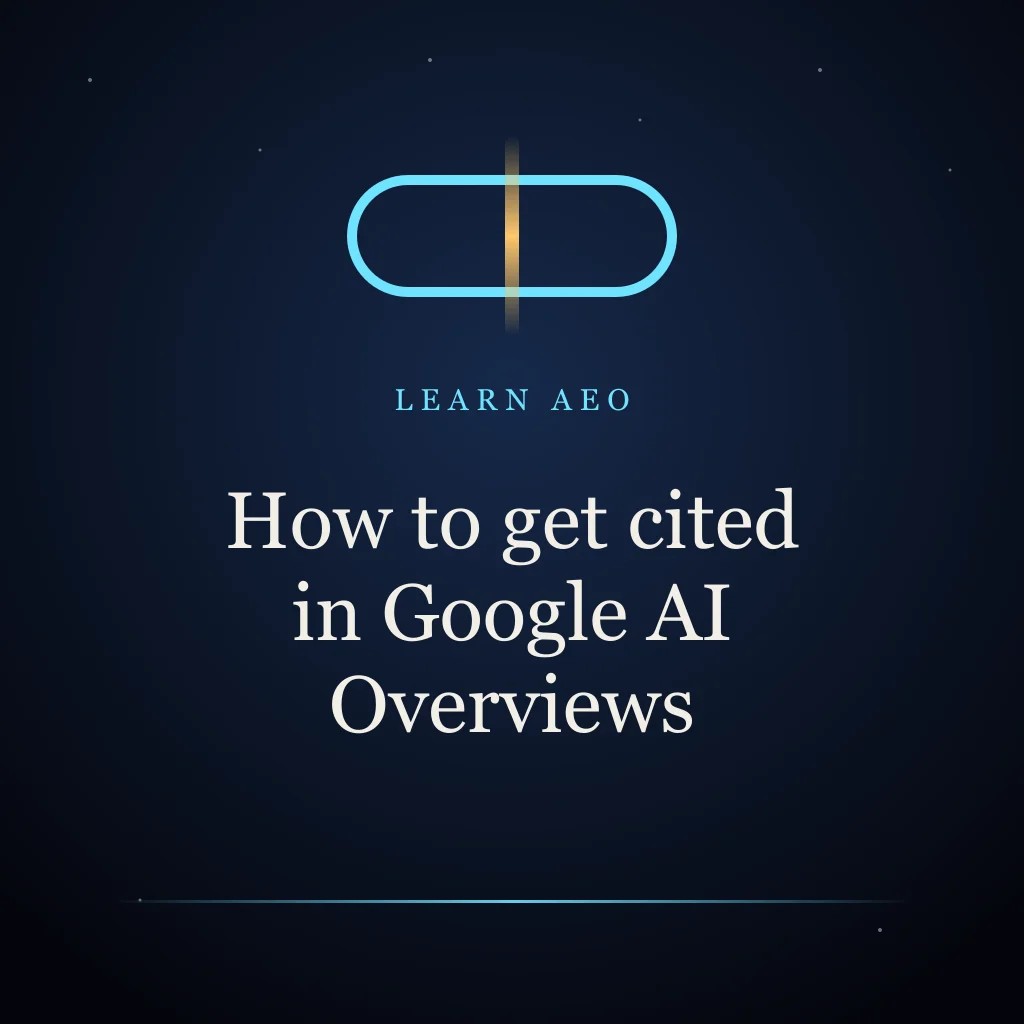
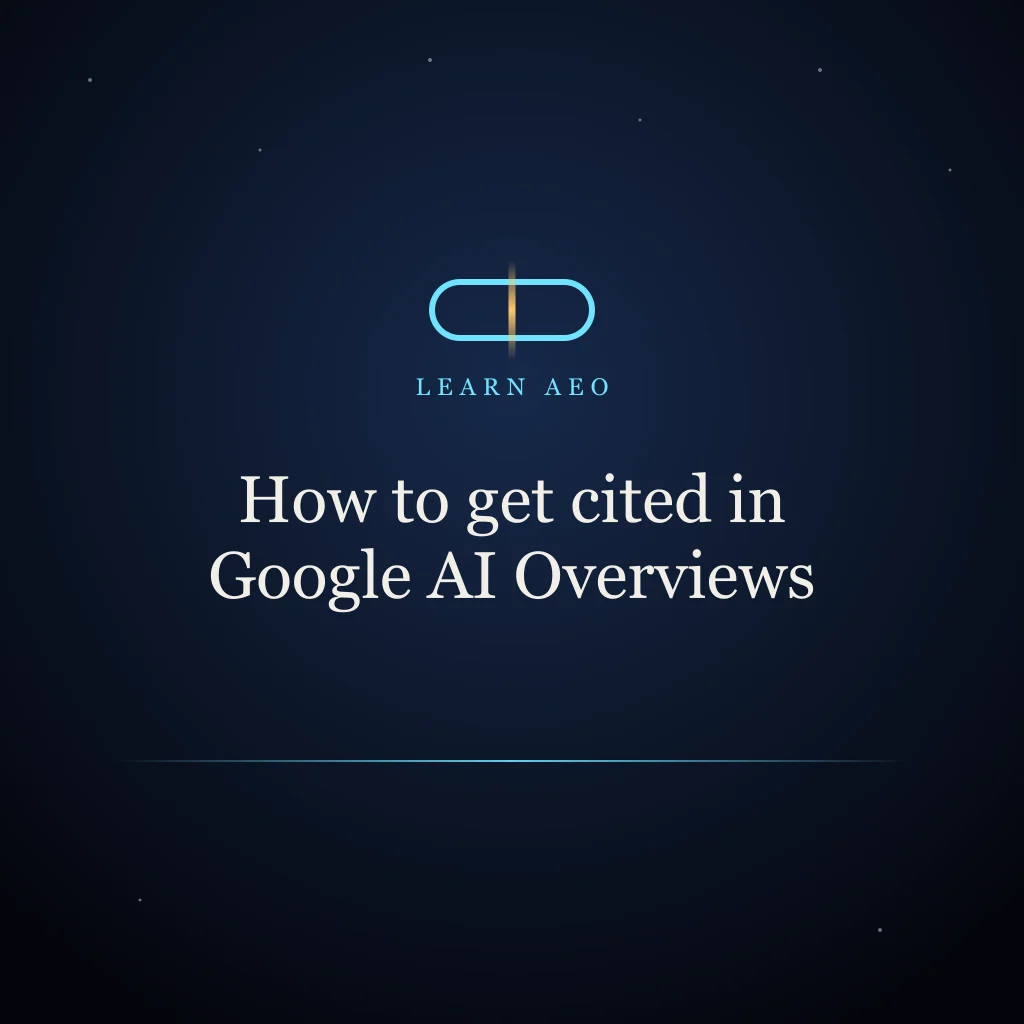
fix: walk findings — code blocks scroll in their box, art fits card crops
Fenced code in blog posts pushed the page to 904px at 390px wide; it now
scrolls inside a focusable box. Blog art keeps title and mark inside the
band the 16:9 hero and ~2:1 cards show. llms.txt Generator's Copy/Download
row wraps at 320px.

Changed region(s): [[0.1875, 0.4688, 0.8125, 0.7188], [0.3125, 0.1562, 0.6875, 0.3438], [0.375, 0.375, 0.625, 0.4062]]

diff --git a/src/app/blog/[slug]/PostBody.tsx b/src/app/blog/[slug]/PostBody.tsx
@@ -66,6 +66,15 @@ export function ArticleBody({ md }: { md: string }) {
             <table className="w-full border-collapse font-body text-base">{children}</table>
           </div>
         ),
+        // Code examples scroll inside their own box (keyboard-focusable), never the page.
+        pre: ({ children }) => (
+          <pre
+            tabIndex={0}
+            className="overflow-x-auto max-w-full mb-6 p-4 rounded-lg border border-gold-700/20 bg-obsidian-lighter font-mono text-sm leading-relaxed text-sand-200"
+          >
+            {children}
+          </pre>
+        ),
         thead: ({ children }) => <thead className="border-b border-gold-700/30">{children}</thead>,
         th: ({ children }) => <th className="text-left p-3 text-gold-400 font-medium text-xs tracking-[0.1em] uppercase">{children}</th>,
         td: ({ children }) => <td className="p-3 text-sand-400 border-b border-gold-700/10">{children}</td>,

diff --git a/src/app/blog/__tests__/blog-post-page.test.tsx b/src/app/blog/__tests__/blog-post-page.test.tsx
@@ -72,6 +72,13 @@ describe("blog post page", () => {
     expect(html).toContain("take the free first lesson");
   });
 
+  it("scrolls long code blocks inside their box, not the page", () => {
+    const md = "## Code\n\n```markdown\n# A very long heading line that is much wider than a phone screen can show\n```";
+    const html = renderToStaticMarkup(<ArticleBody md={md} />);
+    expect(html).toMatch(/<pre[^>]*class="[^"]*overflow-x-auto[^"]*max-w-full/);
+    expect(html).toMatch(/<pre[^>]*tabindex="0"/);
+  });
+
   it("lists no sources section when a post has none", () => {
     expect(renderToStaticMarkup(<PostSources sources={[]} />)).toBe("");
   });

diff --git a/src/app/tools/llms-txt-generator/LlmsGenerator.tsx b/src/app/tools/llms-txt-generator/LlmsGenerator.tsx
@@ -127,7 +127,7 @@ export default function LlmsGenerator() {
       </div>
 
       <div className="lg:sticky lg:top-24 self-start w-full min-w-0">
-        <div className="flex items-center justify-between mb-2">
+        <div className="flex flex-wrap items-center justify-between gap-2 mb-2">
           <span className={label}>Your llms.txt</span>
           <div className="flex gap-2">
             <button
